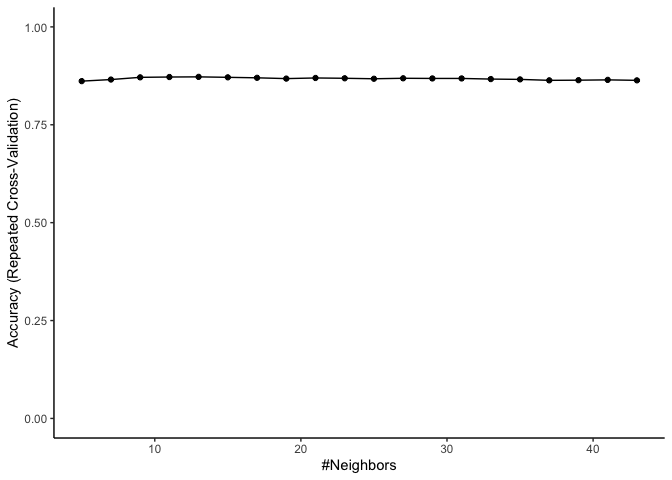
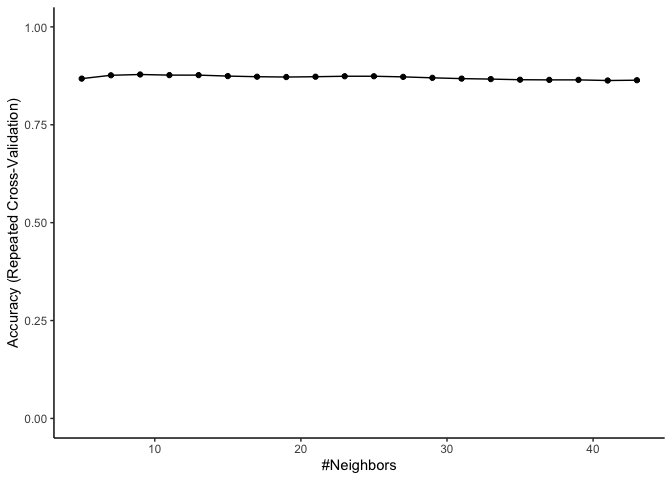
Improve presentation Bird_analysis Rmd

Changed region(s): [[0.0938, 0.125, 0.6875, 0.1875], [0.8125, 0.1562, 0.9375, 0.1875], [0.75, 0.1562, 0.7812, 0.1875]]

diff --git a/Birdsong_analysis.md b/Birdsong_analysis.md
@@ -363,10 +363,13 @@ This suggest that we presence of female call contamination could be a
 way to sort undirected vs. directed songs when visual analysis of
 behavior cannot be done.
 
-## Using Machine learning algorithm
+# Using Machine learning algorithm
 
-Using Machine learning algorithm to see how different are the songs
-during different contexts for each bird.
+Using Machine learning algorithm to 1. see how different are the songs
+during different contexts for each bird. 2. find out what other
+variables are different between contexts.
+
+### Set up data
 
 ``` r
 library(caret)
@@ -386,7 +389,7 @@ data.test <- birdsong1[-index,c(2:16,27,28)]
 data.test <- as.data.frame(data.test )
 ```
 
-Using KNN model to start.
+### Train and run KNN model.
 
 ``` r
 # Train model
@@ -426,6 +429,8 @@ confusionMatrix(predictions,resultstest)
     ##        'Positive' Class : Female calls in recording G544
     ## 
 
+### Variable importance
+
 Looking at which variables contributed the most. We expect motif
 duration to be ranked high.
 
@@ -437,29 +442,29 @@ print(importance)
     ## ROC curve variable importance
     ## 
     ##                    Importance
-    ## start                  0.9394
-    ## motif_duration         0.8641
-    ## diff_frm_mean          0.8641
-    ## mean_entropy           0.6481
-    ## mean_pitch             0.5973
-    ## var_FM                 0.5843
-    ## mean_FM                0.5731
-    ## var_pitch_goodness     0.5686
-    ## mean_pitchgoodness     0.5395
-    ## mean_AM2               0.5335
-    ## mean_amplitude         0.5300
-    ## var_entropy            0.5300
-    ## mean_freq              0.5300
-    ## var_AM                 0.5265
-    ## var_pitch              0.5245
-    ## var_mean_freq          0.5070
+    ## start                  0.9369
+    ## diff_frm_mean          0.8834
+    ## motif_duration         0.8834
+    ## mean_entropy           0.6847
+    ## mean_pitch             0.6094
+    ## mean_FM                0.5856
+    ## var_FM                 0.5581
+    ## var_entropy            0.5480
+    ## mean_amplitude         0.5408
+    ## var_mean_freq          0.5165
+    ## mean_freq              0.5153
+    ## var_pitch_goodness     0.5130
+    ## mean_AM2               0.5110
+    ## mean_pitchgoodness     0.5105
+    ## var_pitch              0.5103
+    ## var_AM                 0.5060
 
 As expected, motif duration is the most important variable other than
 start time. Mean entropy is also expected to be different between the
 two groups because isolated recordings are clean while recordings while
 females are calling are messy (less clean) by definition.
 
-## Plot data
+### Plot data
 
 Plot data to see how well the top two variables separate out the two
 contexts.
@@ -475,7 +480,7 @@ p
 
 ![](Birdsong_analysis_files/figure-gfm/scatterplot-1.png)<!-- -->
 
-## Repeat for Bird \#2
+### Repeat for Bird \#2
 
 ``` r
 birdsong2 <- subset(new_data, birdID == "O375")
@@ -493,7 +498,7 @@ data.test <- birdsong2[-index,c(2:16,27,28)]
 data.test <- as.data.frame(data.test )
 ```
 
-Using KNN model to start.
+Using KNN model.
 
 ``` r
 # Train model
@@ -509,33 +514,35 @@ confusionMatrix(predictions,resultstest)
     ## 
     ##                                 Reference
     ## Prediction                       Female calls in recording O375
-    ##   Female calls in recording O375                              8
-    ##   Male singing alone O375                                    32
+    ##   Female calls in recording O375                             11
+    ##   Male singing alone O375                                    29
     ##                                 Reference
     ## Prediction                       Male singing alone O375
     ##   Female calls in recording O375                       2
     ##   Male singing alone O375                            232
     ##                                                         
-    ##                Accuracy : 0.8759                        
-    ##                  95% CI : (0.8309, 0.9125)              
+    ##                Accuracy : 0.8869                        
+    ##                  95% CI : (0.8433, 0.9218)              
     ##     No Information Rate : 0.854                         
-    ##     P-Value [Acc > NIR] : 0.1738                        
+    ##     P-Value [Acc > NIR] : 0.06941                       
     ##                                                         
-    ##                   Kappa : 0.2778                        
+    ##                   Kappa : 0.37                          
     ##                                                         
-    ##  Mcnemar's Test P-Value : 6.577e-07                     
+    ##  Mcnemar's Test P-Value : 3.016e-06                     
     ##                                                         
-    ##             Sensitivity : 0.2000                        
-    ##             Specificity : 0.9915                        
-    ##          Pos Pred Value : 0.8000                        
-    ##          Neg Pred Value : 0.8788                        
-    ##              Prevalence : 0.1460                        
-    ##          Detection Rate : 0.0292                        
-    ##    Detection Prevalence : 0.0365                        
-    ##       Balanced Accuracy : 0.5957                        
+    ##             Sensitivity : 0.27500                       
+    ##             Specificity : 0.99145                       
+    ##          Pos Pred Value : 0.84615                       
+    ##          Neg Pred Value : 0.88889                       
+    ##              Prevalence : 0.14599                       
+    ##          Detection Rate : 0.04015                       
+    ##    Detection Prevalence : 0.04745                       
+    ##       Balanced Accuracy : 0.63323                       
     ##                                                         
     ##        'Positive' Class : Female calls in recording O375
     ## 
+
+### Variable importance for bird \#2
 
 ``` r
 importance <- varImp(model_knn, scale=FALSE)
@@ -545,30 +552,43 @@ print(importance)
     ## ROC curve variable importance
     ## 
     ##                    Importance
-    ## var_pitch              0.7312
-    ## mean_pitch             0.7233
-    ## diff_frm_mean          0.7188
-    ## motif_duration         0.7188
-    ## mean_entropy           0.6946
-    ## mean_freq              0.6930
-    ## mean_FM                0.6543
-    ## mean_pitchgoodness     0.6233
-    ## start                  0.6215
-    ## mean_AM2               0.6132
-    ## var_entropy            0.5893
-    ## var_FM                 0.5484
-    ## var_pitch_goodness     0.5448
-    ## var_AM                 0.5297
-    ## var_mean_freq          0.5172
-    ## mean_amplitude         0.5048
+    ## diff_frm_mean          0.7204
+    ## motif_duration         0.7204
+    ## var_pitch              0.7177
+    ## mean_pitch             0.7162
+    ## mean_entropy           0.6991
+    ## mean_freq              0.6864
+    ## mean_FM                0.6563
+    ## start                  0.6444
+    ## mean_pitchgoodness     0.6380
+    ## var_entropy            0.6039
+    ## mean_AM2               0.5725
+    ## var_FM                 0.5649
+    ## var_pitch_goodness     0.5596
+    ## var_AM                 0.5391
+    ## var_mean_freq          0.5370
+    ## mean_amplitude         0.5148
 
-# Running stats to see other variables are significantly different between two contexts.
+## Plot bird 2
+
+``` r
+# plot scatter
+
+p <- ggplot(birdsong2, aes(x = motif_duration, y = mean_entropy, color=contexts, alpha=0.5))
+p <- p + geom_point()
+p <- p +  theme_classic()
+p
+```
+
+![](Birdsong_analysis_files/figure-gfm/scatterplotb2-1.png)<!-- -->
+
+## Running stats to see other variables are significantly different between two contexts.
 
 Mean pitch and mean entropy are two variables that ranked high for both
 birds. Running statistical tests to see if these mesures are different
 in different contexts.
 
-# Mean pitch
+### Mean pitch
 
 ``` r
 # Run anova
@@ -625,7 +645,7 @@ TukeyHSD(anov)
 
 Mean pitch is differs with context for O375 but not for G544.
 
-# Mean entropy stats
+### Mean entropy stats
 
 ``` r
 # Run anova
@@ -682,17 +702,6 @@ TukeyHSD(anov)
 
 Mean entropy is differs with context for both birds.
 
-``` r
-# plot scatter
-
-p <- ggplot(birdsong2, aes(x = motif_duration, y = mean_entropy, color=contexts, alpha=0.5))
-p <- p + geom_point()
-p <- p +  theme_classic()
-p
-```
-
-![](Birdsong_analysis_files/figure-gfm/scatterplotb2-1.png)<!-- -->
-
 Just looking at how the accuracy changes with different k values.
 
 ``` r
@@ -716,29 +725,31 @@ knnFit
     ## Resampling results across tuning parameters:
     ## 
     ##   k   Accuracy   Kappa    
-    ##    5  0.8614626  0.2671999
-    ##    7  0.8654887  0.2726739
-    ##    9  0.8711503  0.2854835
-    ##   11  0.8719583  0.2731085
-    ##   13  0.8723697  0.2599753
-    ##   15  0.8711697  0.2413681
-    ##   17  0.8699405  0.2226111
-    ##   19  0.8679129  0.1968755
-    ##   21  0.8695389  0.2093376
-    ##   23  0.8687357  0.2013344
-    ##   25  0.8675211  0.1896025
-    ##   27  0.8687308  0.1959192
-    ##   29  0.8683292  0.1897267
-    ##   31  0.8683292  0.1928920
-    ##   33  0.8667177  0.1738992
-    ##   35  0.8659096  0.1658077
-    ##   37  0.8634804  0.1419833
-    ##   39  0.8638723  0.1433550
-    ##   41  0.8646901  0.1517963
-    ##   43  0.8634755  0.1335846
+    ##    5  0.8678640  0.2961444
+    ##    7  0.8763955  0.3202761
+    ##    9  0.8784181  0.3159664
+    ##   11  0.8768069  0.2871440
+    ##   13  0.8768020  0.2833154
+    ##   15  0.8743581  0.2604346
+    ##   17  0.8727369  0.2478508
+    ##   19  0.8719337  0.2382095
+    ##   21  0.8727273  0.2404710
+    ##   23  0.8739419  0.2454084
+    ##   25  0.8739419  0.2424052
+    ##   27  0.8723306  0.2283040
+    ##   29  0.8699013  0.2098597
+    ##   31  0.8678835  0.1912041
+    ##   33  0.8666835  0.1799411
+    ##   35  0.8650574  0.1673602
+    ##   37  0.8646557  0.1584554
+    ##   39  0.8646557  0.1583129
+    ##   41  0.8630395  0.1429604
+    ##   43  0.8638476  0.1472019
     ## 
     ## Accuracy was used to select the optimal model using the largest value.
-    ## The final value used for the model was k = 13.
+    ## The final value used for the model was k = 9.
+
+Plot the result.
 
 ``` r
 ggplot(knnFit, aes(x=k, y=Accuracy)) + ylim(0,1) + theme_classic()
@@ -750,13 +761,9 @@ It doesn’t seem to matter which numbers we choose for neighbors.
 
 ## PCA (Principal component analysis)
 
-Bird \#1 (G544)
+Will demention reduction separate out the songs from different contexts?
 
-``` r
-length(birdsong1)
-```
-
-    ## [1] 28
+### Bird \#1 (G544)
 
 ``` r
 bs2.pca <- prcomp(birdsong1[,2:12])
@@ -769,13 +776,7 @@ pca.plot
 
 ![](Birdsong_analysis_files/figure-gfm/PCA1-1.png)<!-- -->
 
-Bird \#2 (O375)
-
-``` r
-length(birdsong2)
-```
-
-    ## [1] 28
+### Bird \#2 (O375)
 
 ``` r
 bs2.pca <- prcomp(birdsong2[,2:12])
@@ -788,6 +789,8 @@ pca.plot
 ![](Birdsong_analysis_files/figure-gfm/PCA-1.png)<!-- -->
 
 ## Exploring different plots
+
+### Bird 1
 
 ``` r
 library(FactoMineR)
@@ -810,6 +813,8 @@ fviz_pca_ind(bird1.pca,
 ```
 
 ![](Birdsong_analysis_files/figure-gfm/PCAbird1_2-1.png)<!-- -->
+
+### Bird 2
 
 ``` r
 new_birdsong2 <- birdsong2[,c(2:16,27:28)]
